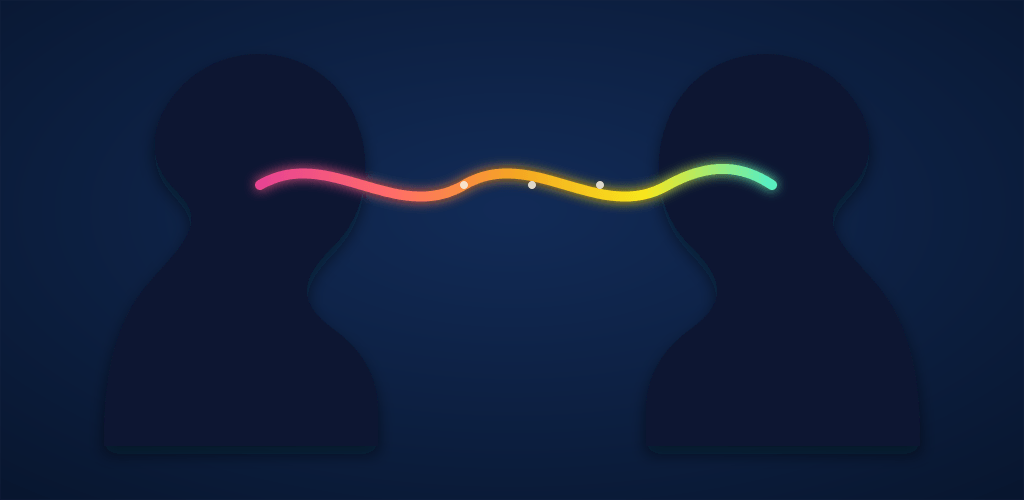
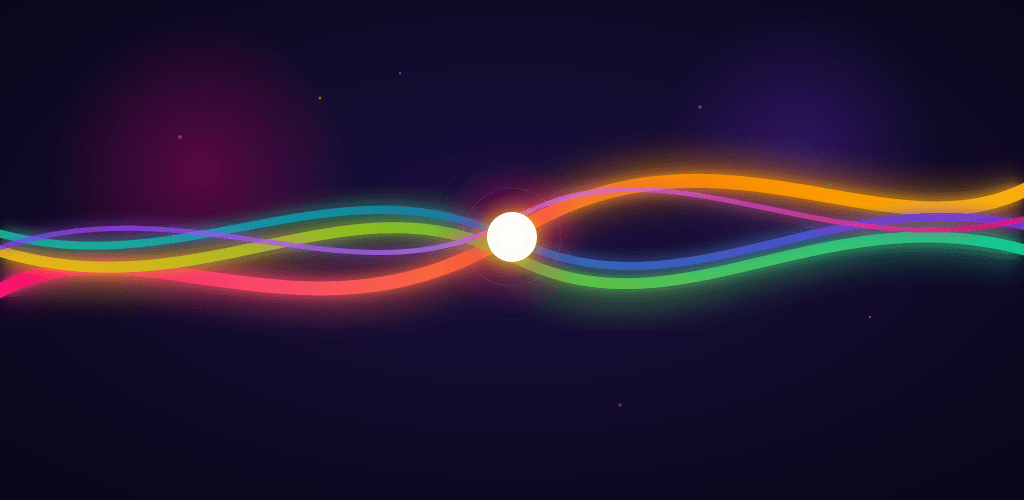
fix: adjust name and keyboard avoiding view

diff --git a/app/game-setup.tsx b/app/game-setup.tsx
@@ -190,6 +190,7 @@ export default function GameSetupScreen() {
         contentContainerStyle={[styles.scrollContent, responsiveContainer]}
         keyboardShouldPersistTaps="handled"
         showsVerticalScrollIndicator={false}
+        automaticallyAdjustKeyboardInsets
       >
         <View style={isLandscape ? styles.grid : undefined}>
         {/* Winning Score */}
@@ -323,8 +324,8 @@ export default function GameSetupScreen() {
         )}
         </View>
 
-        {/* Bottom spacing for floating button */}
-        <View style={{ height: 100 }} />
+        {/* Bottom spacing for floating button and keyboard */}
+        <View style={{ height: 140 }} />
       </ScrollView>
 
       {/* Floating Play Button */}
